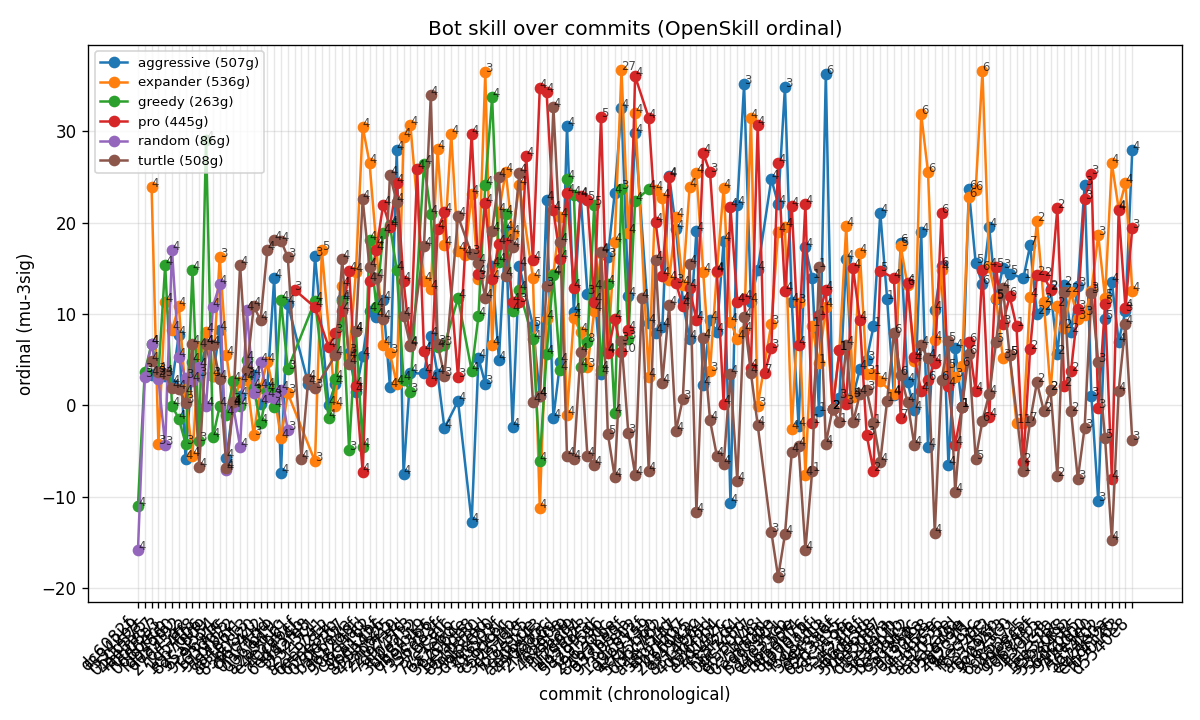
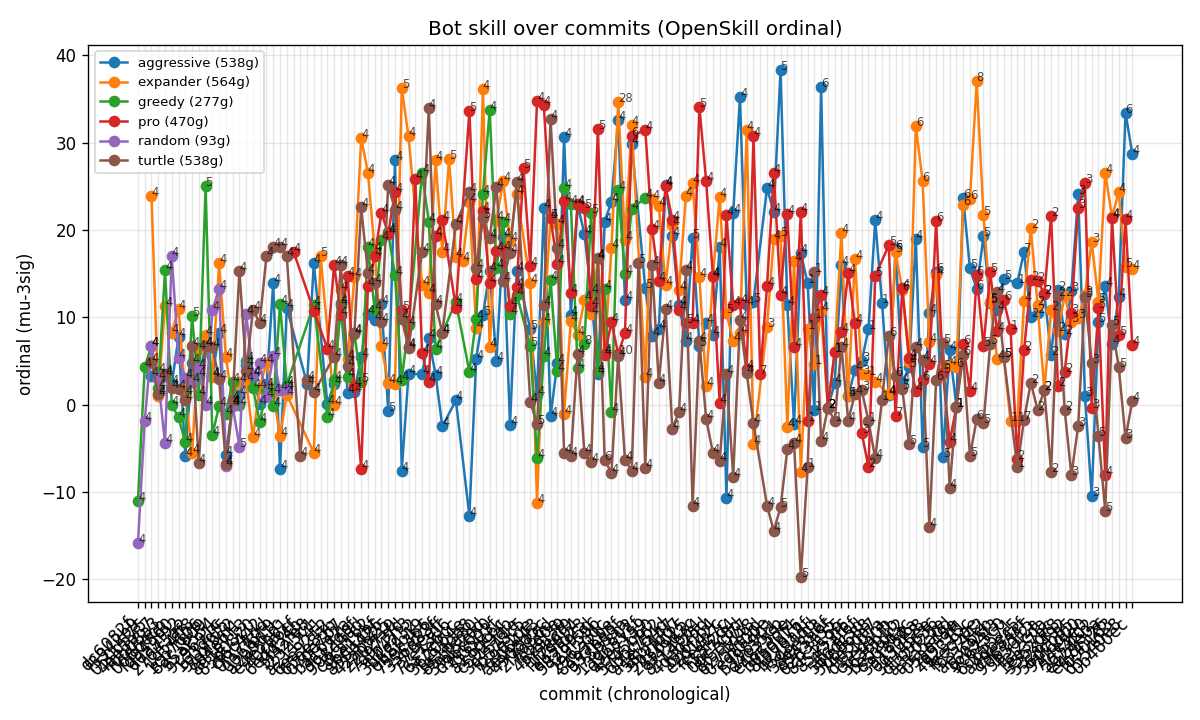
Pool dedups HEAD (docs commits add no brains)

diff --git a/benchmarks/matchmake.py b/benchmarks/matchmake.py
@@ -73,11 +73,15 @@ def pool() -> list[str]:
             if key not in seen:
                 seen[key] = f"{b}-{sha}"
     picks.update(seen.values())
-    # HEAD short sha
+    # HEAD short sha — through the same dedup (a docs/ratings commit
+    # adds no brains; its IDs would grind zero-games forever).
     head = subprocess.run(["git", "-C", str(ROOT), "rev-parse", "--short", "HEAD"],
                           capture_output=True, text=True).stdout.strip()
     for b in bots_at("HEAD"):
-        picks.add(f"{b}-{head}")
+        key = f"{b}@{brain_hash('HEAD', b)}"
+        if key not in seen:
+            seen[key] = f"{b}-{head}"
+    picks.update(seen.values())
     return sorted(picks)
 
 
